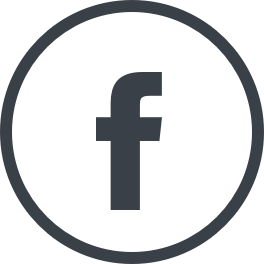
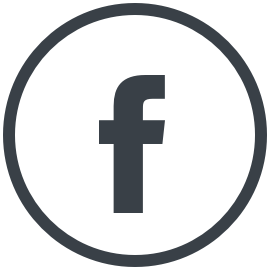
make some more design changes

diff --git a/static/css/all.css b/static/css/all.css
@@ -212,7 +212,7 @@ strong {
 /*hero img*/
 .hero {
   height: 35em;
-  background-image: url(/img/pic/imgpic2.jpg);
+  background-image: url(/img/pic/imgpic1.jpg);
   background-repeat: no-repeat;
   background-size: cover;
   background-position: center center;
@@ -234,15 +234,38 @@ strong {
   font-weight: 600;
 }
 
-.sub-hero-img-coaching {
+.sub-hero {
   height: 35em;
-  background-image: url(/img/pic/imgpic1.jpg);
   background-repeat: no-repeat;
   background-size: cover;
   background-position: center center;
   margin-bottom: 3em;
-  margin-left: -44%;
-  margin-right: -44%;
+  margin-left: -41%;
+  margin-right: -41%;
+}
+
+.img-coaching {
+    background-image: url(/img/pic/imgpic7.jpg);
+}
+
+.img-ich {
+    background-image: url(/img/pic/imgpic11.jpg);
+}
+
+.img-du {
+    background-image: url(/img/pic/imgpic8.jpg);
+}
+
+.img-contact {
+    background-image: url(/img/pic/imgpic5.jpg);
+}
+
+.img-blog {
+    background-image: url(/img/pic/imgpic4.jpg);
+}
+
+.img-lob {
+    background-image: url(/img/pic/imgpic3.jpg);
 }
 
 .sub-hero-img-text {
@@ -313,17 +336,14 @@ strong {
 
 .image-ego-container {
   text-align: center;
-  border-top: 3px solid var(--fun-color);
-  border-bottom: 3px solid var(--fun-color);
-  background-image: url(/img/logo-icon.png);
-  background-repeat: no-repeat;
-  background-size: 10em;
+  background-color: #ce2e86; 
+  margin-left: -41%;
+  margin-right: -41%;
 }
 
 #image-ego {
   width: 50%;
   margin: auto;
-  padding: 1em;
 }
 
 @media only screen and (max-width:38em) {
@@ -358,22 +378,16 @@ strong {
   text-align: center;
   color: var(--text-color);
   font-weight: 600;
-  margin-bottom: 2em;
   padding-bottom: 0.5em;
 }
 
-.hero-text {
+.index-highlight-text {
   text-align: center;
-  margin-bottom: 1.5em;
-  font-weight: 500;
-  font-size: 1.2em;
-}
-
-@media only screen and (max-width:38em) {
-  .hero-text {
-    font-size: 1.1em;
-  }
-
+  font-size: 1.5em;
+  background-color: var(--text-color);
+  padding: 1em;
+  margin: 1em -41%;
+  color: white;
 }
 
 /*blog summary*/
@@ -451,13 +465,20 @@ strong {
   background-repeat: no-repeat;
   background-size: cover;
   background-position: center center;
+  padding: 2em;
 }
 
 .call-to-action-text {
-  background-color: red;
-  width: 50%;
+  background-color: white;
+  width: 25em;
   margin: auto;
   padding: 1em;
+}
+
+.call-to-action-text h2 {
+  font-size: 1.5em;
+  padding-bottom: 1em;
+  line-height: 1.5em;
 }
 
 .button-action-container {
@@ -477,7 +498,7 @@ strong {
 
 .button-action:hover {
   border: 2px solid var(--text-color);
-  color: var(--fun-color);
+  color: white;
   transition: 0.1s;
   background-color: var(--text-color);
 }
@@ -486,8 +507,9 @@ strong {
 .footer {
   position: relative;
   text-align: center;
-  color: var(--text-color);
+  color: white;
   padding: 1.5em;
+  background-color: var(--text-color);
 }
 
 .footer-content {
@@ -503,14 +525,16 @@ strong {
 }
 
 .footer-extra a {
-  border-bottom: solid 2px var(--fun-color);
+  text-decoration: none;
+  border: none;
+  color: white;
 }
 
 .footer-social {
   display: flex;
   flex-direction: row;
   justify-content: space-between;
-  width: 15%;
+  width: 10%;
   max-width: 8em;
   padding: 1em 0;
 }
@@ -518,25 +542,25 @@ strong {
 .social-facebook {
   width: 2.5em;
   height: 2.5em;
-  background-image: url(/img/facebook-3.png);
+  background-image: url(/img/facebook-8.png);
   background-size: 2.5em 2.5em;
   background-repeat: no-repeat;
 }
 
 .social-facebook:hover {
-  background-image: url(/img/facebook-7.png);
+  background-image: url(/img/facebook-3.png);
 }
 
 .social-mail {
   width: 2.5em;
   height: 2.5em;
-  background-image: url(/img/mail-3.png);
+  background-image: url(/img/mail-8.png);
   background-size: 2.5em 2.5em;
   background-repeat: no-repeat;
 }
 
 .social-mail:hover {
-  background-image: url(/img/mail-7.png);
+  background-image: url(/img/mail-3.png);
 }
 
 @media only screen and (max-width:38em) {
@@ -552,16 +576,15 @@ strong {
 
 /*Contact Form*/
 .container-contact-form {
-  border-radius: 5px;
-  background-color: var(--fun-color);
-  padding: 2em;
+  padding: 1em;
+  text-align: left;
 }
 
 input[type=text], select, textarea {
   width: 100%;
-  padding: 1.25em;
-  border: 1px solid var(--fun-color);
-  border-radius: 0.5em;
+  padding: 0.5em;
+  border: 1px solid var(--text-color);
+  border-radius: 0.2em;
   box-sizing: border-box;
   margin-top: 0.75em;
   margin-bottom: 0.75em;
@@ -569,14 +592,15 @@ input[type=text], select, textarea {
 }
 
 input[type=submit] {
-  background-color: var(--fun-color);
-  color: var(--text-color);
+  background-color: var(--text-color);
+  color: white;
   padding: 12px 20px;
   border: solid 2px var(--text-color);
   border-radius: 4px;
 }
 
 input[type=submit]:hover {
-  background-color: var(--text-color);
-  color: var(--fun-color);
+  background-color: white;
+  color: var(--text-color);
+  cursor: pointer;
 }

diff --git a/layouts/partials/footer.html b/layouts/partials/footer.html
@@ -1,23 +1,44 @@
 <div class="call-to-action">
-	 <h2>Bereit etwas zu verändern? <br> Dann lass uns reden!</h2>
-	 <p>Schreib mir eine Nachricht und wir machen einen 20-minütigen Kennenlerntermin aus damit ich mehr über dich erfahren kann und herausfinden kann wie ich dir am Besten helfen kann.</p>
+	<div class="call-to-action-text">
+		<h2>Bereit etwas zu verändern? <br> Dann lass uns reden!</h2>
+		<!-- <p>Schreib mir eine Nachricht und wir machen einen 20-minütigen Kennenlerntermin aus damit ich mehr über dich erfahren kann und herausfinden kann wie ich dir am Besten helfen kann.</p>
+		<div class="button-action-container">
+			<a href="mailto:verena@verenaortlieb.de" target="_blank">
+				<div class="button-action">
+					Termin vereinbaren
+				</div>
+			</a>
+		</div> -->
 
-	<div class="button-action-container">
-		<a href="mailto:verena@verenaortlieb.de" target="_blank">
-			<div class="button-action">
-			Termin vereinbaren
-			</div>
-		</a>
-	</div>
+<div class="container-contact-form">
+  <form action="action_page.php">
+
+<label for="fname">Vorname</label>
+    <input type="text" id="fname" name="firstname" placeholder="">
+
+<label for="lname">Nachname</label>
+    <input type="text" id="lname" name="lastname" placeholder="">
+
+<label for="email">E-Mail Adresse</label>
+    <input type="text" id="email" name="email" placeholder="">
+
+<label for="subject">Grund aus dem ich Kontakt aufnehme</label>
+    <textarea id="subject" name="subject" placeholder="" style="height:8em"></textarea>
+
+<input type="submit" value="Senden">
+
+  </form>
 </div>
 
+	</div>
+</div>
 <footer class="footer">
-<div class="footer-content">
-	<div class="footer-social">
-		<a href="https://www.facebook.com/VerenaOrtlieb/" target="_blank"><div class="social-facebook"></div></a>
-		<a href="mailto:verena@verenaortlieb.de" target="_blank"><div class="social-mail"></div></a>
+	<div class="footer-content">
+		<div class="footer-social">
+			<a href="https://www.facebook.com/VerenaOrtlieb/" target="_blank"><div class="social-facebook"></div></a>
+			<a href="mailto:verena@verenaortlieb.de" target="_blank"><div class="social-mail"></div></a>
+		</div>
+		<p>© copyright 2018 | verena ortlieb</p>
+		<p class="footer-extra"><a href="/impressum">Impressum</a></p>
 	</div>
-    <p>© copyright 2018 | verena ortlieb</p>
-    <p class="footer-extra"><a href="/impressum">Impressum</a></p>
-</div>
 </footer>

diff --git a/layouts/index.html b/layouts/index.html
@@ -20,16 +20,15 @@
 
 <h2 class="index-title">Bereit etwas zu verändern?</h2>
 
-<!-- <img src="/img/you-you.svg" alt="">
- -->
-
 <p>Hast du das Gefühl, dass da mehr ist? Ist dein Leben auch noch nicht so, wie du es gerne hättest?</p>
 
 <p>Wenn du bereit bist das in Angriff zu nehmen und der Mensch zu werden, der du sein möchtest, dann bist du hier richtig. Und ich möchte dich sehr gerne auf diesem Weg begleiten.</p>
 
-<p class="hero-text">Du weisst, dass dein Leben mehr zu bieten hat, also lass uns beginnen.</p>
+<h3 class="index-highlight-text">Du weisst, dass dein Leben mehr zu bieten hat, <br> also lass uns beginnen.</h3>
 
 <h2 class="index-title">Hallo, ich bin Verena!</h2>
+
+<p>Ich liebe es Menschen dabei zu helfen mit ihrem Leben klar zu kommen. Ich bin Coach, Digitaler Nomade, Designer, Blog-Schreiber und Lebensbegeisterte.</p>
 
 
 </div>	

diff --git a/layouts/section/blog.html b/layouts/section/blog.html
@@ -11,6 +11,11 @@
 
 	<div class="site-content">
 
+
+<div class="sub-hero img-blog"></div>
+
+<h2 class="sub-hero-img-text">Blog</h2>
+
 		<ul class="blog-summary">			
 			{{ range .Data.Pages }}
 			<li class="single-post-summary">

diff --git a/content/du/index.md b/content/du/index.md
@@ -6,11 +6,9 @@ identifier = "du"
 weight = 2
 +++
 
-<h2 class="sub-side-hero">Hört sich das nach dir an...</h2>
+<div class="sub-hero img-du"></div>
 
-<div  class="img-halfe">
-<img src="/img/you-standing.svg" alt="">
-</div>
+<h2 class="sub-hero-img-text">Hört sich das nach dir an...</h2>
 
 Ich weiss warum du auf meiner Webseite gelandet bist. Zumindest habe ich eine starke Vermutung.
 

diff --git a/content/lob/index.md b/content/lob/index.md
@@ -6,14 +6,9 @@ identifier = "lob"
 weight = 4
 +++
 
+<div class="sub-hero img-lob"></div>
 
-<h2 class="sub-side-hero">Was andere sagen...</h2>
-
-<img src="/img/you-them.svg" alt="">
-
-<!-- <div  class="img-halfe">
-<img src="/img/you-them.png" alt="">
-</div> -->
+<h2 class="sub-hero-img-text">Was andere sagen...</h2>
 
 <div class="lob-text">
 <p>

diff --git a/content/ich/index.md b/content/ich/index.md
@@ -6,7 +6,10 @@ identifier = "ich"
 weight = 1
 +++
 
-<h2 class="sub-side-hero">Hallo, ich bin Verena.</h2>
+<div class="sub-hero img-ich"></div>
+
+<h2 class="sub-hero-img-text">Hallo, ich bin Verena.</h2>
+
 
 Ich bin hier um etwas zu verändern. Und dir dabei zu helfen.
 

diff --git a/content/coaching/index.md b/content/coaching/index.md
@@ -6,7 +6,7 @@ identifier = "coaching"
 weight = 3
 +++
 
-<div class="sub-hero-img-coaching"></div>
+<div class="sub-hero img-coaching"></div>
 
 <h2 class="sub-hero-img-text">Hör auf darauf zu warten, dass sich etwas ändert.</h2>
 

diff --git a/content/kontakt/index.md b/content/kontakt/index.md
@@ -6,7 +6,7 @@ identifier = "contact"
 weight = 6
 +++
 
-<div class="sub-hero-img-coaching"></div>
+<div class="sub-hero img-contact"></div>
 
 <h2 class="sub-hero-img-text">Hallo!</h2>
 
